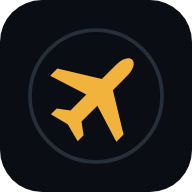
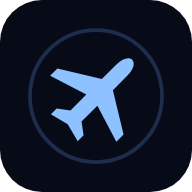
Switch the theme from amber to navy, ice blue and white
New tokens (deep navy surfaces, ice-blue accent, white text, cool-white
boarding pass), blue app icons and theme colour, blue map route and stamps.
Gold is kept for first class only.

Claude-Session: https://claude.ai/code/session_014atmYqS8yotDTYQadxxyzY

Changed region(s): [[0.25, 0.2812, 0.7188, 0.75]]

diff --git a/src/styles/tokens.css b/src/styles/tokens.css
@@ -1,32 +1,34 @@
-/* AeroFocus design tokens (PRD "Design system"). The accent is one variable so
-   alternate themes (#8CB8E8, #E8836A) are a single override. */
+/* AeroFocus design tokens: deep navy, ice blue and white. The accent is one
+   variable, so a different theme is a single override. */
 :root {
-  --bg: #0a0e14;
-  --surface: #141a22;
-  --surface-sunk: #0e1218;
-  --flap: rgba(8, 11, 15, 0.82);
-  --border: #262e39;
-  --text: #ece7de;
-  --text-muted: #c3cad3;
-  --accent: #f2b33d;
-  --on-accent: #1a1407;
-  --sky: #8cb8e8;
+  --bg: #060b17;
+  --surface: #0d1830;
+  --surface-sunk: #091226;
+  --flap: rgba(5, 9, 20, 0.82);
+  --border: #1d2d4d;
+  --text: #f5f8ff;
+  --text-muted: #b7c5df;
+  --accent: #8ec1ff;
+  --on-accent: #06142e;
+  --sky: #6fd6e8;
+  /* Gold is kept for first class only. */
+  --gold: #f2b33d;
   --divert: #f4b3a6;
   --divert-bg: rgba(240, 164, 150, 0.12);
-  --paper: #f4efe6;
-  --paper-stub: #ece5d8;
-  --ink: #1b1f24;
-  --ink-label: #4f5763;
+  --paper: #f4f8ff;
+  --paper-stub: #e5edf9;
+  --ink: #0b1630;
+  --ink-label: #475673;
 
-  --glow-amber: rgba(242, 179, 61, 0.3);
-  --glow-blue: rgba(78, 128, 214, 0.42);
-  --glow-clay: rgba(196, 104, 92, 0.3);
+  --glow-a: rgba(66, 133, 255, 0.34);
+  --glow-b: rgba(52, 84, 214, 0.42);
+  --glow-c: rgba(60, 200, 230, 0.2);
 
   --shadow-card: 0 24px 48px rgba(0, 0, 0, 0.3);
   --shadow-pass: 0 40px 80px rgba(0, 0, 0, 0.45);
 
-  --glass-bg: rgba(20, 26, 36, 0.42);
-  --glass-bg-fallback: rgba(20, 26, 36, 0.85);
+  --glass-bg: rgba(13, 24, 48, 0.42);
+  --glass-bg-fallback: rgba(13, 24, 48, 0.85);
   --glass-border: rgba(255, 255, 255, 0.14);
   --glass-highlight: inset 0 1px 0 rgba(255, 255, 255, 0.16);
 

diff --git a/src/components/CabinWindow.tsx b/src/components/CabinWindow.tsx
@@ -14,7 +14,7 @@ export function CabinWindow({ progress, compact }: { progress: number; compact?:
       <div
         role="img"
         aria-label={`Cabin window: ${sky.label.toLowerCase()}`}
-        className={`relative overflow-hidden border-[6px] border-[#232b36] shadow-[inset_0_0_24px_rgba(0,0,0,0.55)] ${compact ? 'h-24 w-16 rounded-[28px]' : 'h-[150px] w-[108px] rounded-[44px]'}`}
+        className={`relative overflow-hidden border-[6px] border-[#1b2a4a] shadow-[inset_0_0_24px_rgba(0,0,0,0.55)] ${compact ? 'h-24 w-16 rounded-[28px]' : 'h-[150px] w-[108px] rounded-[44px]'}`}
         style={{ background: `linear-gradient(180deg, ${sky.top} 0%, ${sky.mid} 62%, ${sky.low} 100%)`, transition: 'background 1s linear' }}
       >
         <svg viewBox="0 0 100 140" className="absolute inset-0 size-full" aria-hidden="true">
@@ -30,7 +30,7 @@ export function CabinWindow({ progress, compact }: { progress: number; compact?:
             <ellipse cx="52" cy="108" rx="22" ry="6" opacity="0.6" />
           </g>
           {/* wing tip */}
-          <path d="M100 96 L58 112 L62 116 L100 110 Z" fill="#1a2029" opacity="0.92" />
+          <path d="M100 96 L58 112 L62 116 L100 110 Z" fill="#101a30" opacity="0.92" />
         </svg>
       </div>
       {!compact && <span className="label ml-5">{sky.label}</span>}

diff --git a/src/styles/tailwind.css b/src/styles/tailwind.css
@@ -12,6 +12,7 @@
   --color-accent: var(--accent);
   --color-on-accent: var(--on-accent);
   --color-sky: var(--sky);
+  --color-gold: var(--gold);
   --color-divert: var(--divert);
   --color-divert-bg: var(--divert-bg);
   --color-paper: var(--paper);
@@ -63,9 +64,9 @@
   /* Soft glows behind every screen. */
   .screen-bg {
     background:
-      radial-gradient(40rem 32rem at var(--glow-1), var(--glow-amber), transparent 70%),
-      radial-gradient(46rem 36rem at var(--glow-2), var(--glow-blue), transparent 70%),
-      radial-gradient(40rem 30rem at var(--glow-3), var(--glow-clay), transparent 70%),
+      radial-gradient(40rem 32rem at var(--glow-1), var(--glow-a), transparent 70%),
+      radial-gradient(46rem 36rem at var(--glow-2), var(--glow-b), transparent 70%),
+      radial-gradient(40rem 30rem at var(--glow-3), var(--glow-c), transparent 70%),
       var(--bg);
   }
 
@@ -201,14 +202,14 @@
   @keyframes seat-pop {
     0% {
       transform: scale(0.92);
-      box-shadow: 0 0 0 0 rgba(242, 179, 61, 0.55);
+      box-shadow: 0 0 0 0 rgba(142, 193, 255, 0.55);
     }
     60% {
       transform: scale(1.06);
     }
     100% {
       transform: scale(1);
-      box-shadow: 0 0 0 12px rgba(242, 179, 61, 0);
+      box-shadow: 0 0 0 12px rgba(142, 193, 255, 0);
     }
   }
 

diff --git a/src/components/map/FlightMap.tsx b/src/components/map/FlightMap.tsx
@@ -172,13 +172,13 @@ export default function FlightMap(props: Props) {
         style={{ position: 'absolute', inset: 0 }}
       >
         <Source id="rest" type="geojson" data={rest}>
-          <Layer id="rest" type="line" paint={{ 'line-color': '#8CB8E8', 'line-width': 2.5, 'line-dasharray': [2, 2] }} layout={{ 'line-cap': 'round' }} />
+          <Layer id="rest" type="line" paint={{ 'line-color': '#6FD6E8', 'line-width': 2.5, 'line-dasharray': [2, 2] }} layout={{ 'line-cap': 'round' }} />
         </Source>
         <Source id="flown" type="geojson" data={flown}>
-          <Layer id="flown" type="line" paint={{ 'line-color': '#F2B33D', 'line-width': 4 }} layout={{ 'line-cap': 'round' }} />
+          <Layer id="flown" type="line" paint={{ 'line-color': '#8EC1FF', 'line-width': 4 }} layout={{ 'line-cap': 'round' }} />
         </Source>
         <Marker longitude={pos.lon} latitude={pos.lat} rotation={heading} rotationAlignment="map" pitchAlignment="map">
-          <span className="text-accent block drop-shadow-[0_0_10px_rgba(242,179,61,0.8)]">
+          <span className="text-accent block drop-shadow-[0_0_10px_rgba(142,193,255,0.8)]">
             <PlaneIcon size={38} />
           </span>
         </Marker>

diff --git a/src/components/Globe.tsx b/src/components/Globe.tsx
@@ -104,8 +104,8 @@ export function Globe({ from, to, size = 200 }: { from: LatLon; to?: LatLon; siz
     <svg width={size} height={size} viewBox={`0 0 ${size} ${size}`} aria-hidden="true" className="shrink-0">
       <defs>
         <radialGradient id="globe-sea" cx="35%" cy="30%" r="80%">
-          <stop offset="0" stopColor="#1c2a40" />
-          <stop offset="1" stopColor="#0b1019" />
+          <stop offset="0" stopColor="#1b3566" />
+          <stop offset="1" stopColor="#07101f" />
         </radialGradient>
         <clipPath id="globe-clip">
           <circle cx={r} cy={r} r={r - 1} />
@@ -113,7 +113,7 @@ export function Globe({ from, to, size = 200 }: { from: LatLon; to?: LatLon; siz
       </defs>
       <circle cx={r} cy={r} r={r - 1} fill="url(#globe-sea)" stroke="var(--border)" />
       <g clipPath="url(#globe-clip)">
-        <path d={land} fill="#27364a" stroke="#3a4b63" strokeWidth="0.5" />
+        <path d={land} fill="#26427a" stroke="#3d5f9e" strokeWidth="0.5" />
         {arc && <path d={arc} fill="none" stroke="var(--accent)" strokeWidth="2" strokeLinecap="round" />}
       </g>
       {a && <circle cx={a[0]} cy={a[1]} r="3.5" fill="var(--accent)" />}

diff --git a/src/components/seat/CabinMap.tsx b/src/components/seat/CabinMap.tsx
@@ -26,7 +26,7 @@ const TYPE_STYLE: Record<SeatType, string> = {
   aisle: 'border-border text-muted',
   middle: 'border-border text-muted/80',
   exit: 'border-accent/50 text-accent',
-  first: 'border-accent/70 text-accent',
+  first: 'border-gold/70 text-gold',
 };
 
 export function CabinMap({ selected, onSelect, firstUnlocked, plan, vertical }: Props) {
@@ -61,7 +61,7 @@ export function CabinMap({ selected, onSelect, firstUnlocked, plan, vertical }: 
         onClick={() => onSelect(code)}
         className={`flex size-11 shrink-0 cursor-pointer lg:size-[52px] lg:text-[12px] items-center justify-center rounded-[12px_12px_8px_8px] border font-mono text-[11px] font-semibold transition enabled:hover:scale-105 enabled:active:scale-95 disabled:cursor-not-allowed ${
           on
-            ? 'seat-pop bg-accent border-accent text-on-accent shadow-[0_0_18px_rgba(242,179,61,0.45)]'
+            ? 'seat-pop bg-accent border-accent text-on-accent shadow-[0_0_18px_rgba(142,193,255,0.45)]'
             : locked
               ? 'border-border text-muted/50 bg-surface-sunk'
               : `bg-surface-sunk hover:bg-surface ${TYPE_STYLE[type]}`

diff --git a/src/components/Stamp.tsx b/src/components/Stamp.tsx
@@ -9,7 +9,7 @@ export interface StampInfo {
   visits?: number;
 }
 
-const INK = '#F2B33D';
+const INK = '#8EC1FF';
 const GOLD = '#FFD978';
 
 /** A round passport stamp. */
@@ -52,7 +52,7 @@ export async function stampPng(stamp: StampInfo): Promise<Blob> {
   canvas.height = S;
   const g = canvas.getContext('2d')!;
   const c = stamp.gold ? GOLD : INK;
-  g.fillStyle = '#0A0E14';
+  g.fillStyle = '#060B17';
   g.fillRect(0, 0, S, S);
   const glow = g.createRadialGradient(S * 0.3, S * 0.2, 0, S * 0.3, S * 0.2, S * 0.8);
   glow.addColorStop(0, 'rgba(78,128,214,0.35)');
@@ -101,7 +101,7 @@ export async function stampPng(stamp: StampInfo): Promise<Blob> {
   g.fillText(stamp.gold ? '★ FIRST CLASS ★' : `AEROFOCUS${stamp.flightNo ? ` · ${stamp.flightNo}` : ''}`, 0, 280);
   g.restore();
 
-  g.fillStyle = '#C3CAD3';
+  g.fillStyle = '#B7C5DF';
   g.font = `500 34px ${mono}`;
   g.textAlign = 'center';
   g.fillText('EVERY FOCUS SESSION IS A FLIGHT', S / 2, S - 70);

diff --git a/src/components/FirstClassNotice.tsx b/src/components/FirstClassNotice.tsx
@@ -9,8 +9,8 @@ export function FirstClassNotice() {
   const close = () => update({ firstClassNoticeShown: true });
   return (
     <div className="fade-in fixed inset-0 z-50 flex items-end justify-center bg-black/60 p-4 md:items-center" onClick={close}>
-      <div role="alertdialog" aria-modal="true" aria-labelledby="fc-title" aria-describedby="fc-desc" className="card border-accent/60 w-full max-w-[440px] p-6" onClick={(e) => e.stopPropagation()}>
-        <p className="label !text-accent">★ 25 focus hours</p>
+      <div role="alertdialog" aria-modal="true" aria-labelledby="fc-title" aria-describedby="fc-desc" className="card border-gold/60 w-full max-w-[440px] p-6" onClick={(e) => e.stopPropagation()}>
+        <p className="label !text-gold">★ 25 focus hours</p>
         <h2 id="fc-title" className="mt-2 text-[26px]">
           First class is unlocked
         </h2>

diff --git a/index.html b/index.html
@@ -4,7 +4,7 @@
     <meta charset="UTF-8" />
     <link rel="icon" type="image/svg+xml" href="/favicon.svg" />
     <meta name="viewport" content="width=device-width, initial-scale=1.0" />
-    <meta name="theme-color" content="#0A0E14" />
+    <meta name="theme-color" content="#060B17" />
     <meta name="description" content="AeroFocus turns a focus session into a flight. The real flight time between two airports becomes your focus block." />
     <link rel="apple-touch-icon" href="/apple-touch-icon.png" />
     <title>AeroFocus</title>

diff --git a/vite.config.ts b/vite.config.ts
@@ -19,8 +19,8 @@ export default defineConfig({
         name: 'AeroFocus',
         short_name: 'AeroFocus',
         description: 'Every focus session is a flight.',
-        theme_color: '#0A0E14',
-        background_color: '#0A0E14',
+        theme_color: '#060B17',
+        background_color: '#060B17',
         display: 'standalone',
         start_url: base,
         scope: base,
